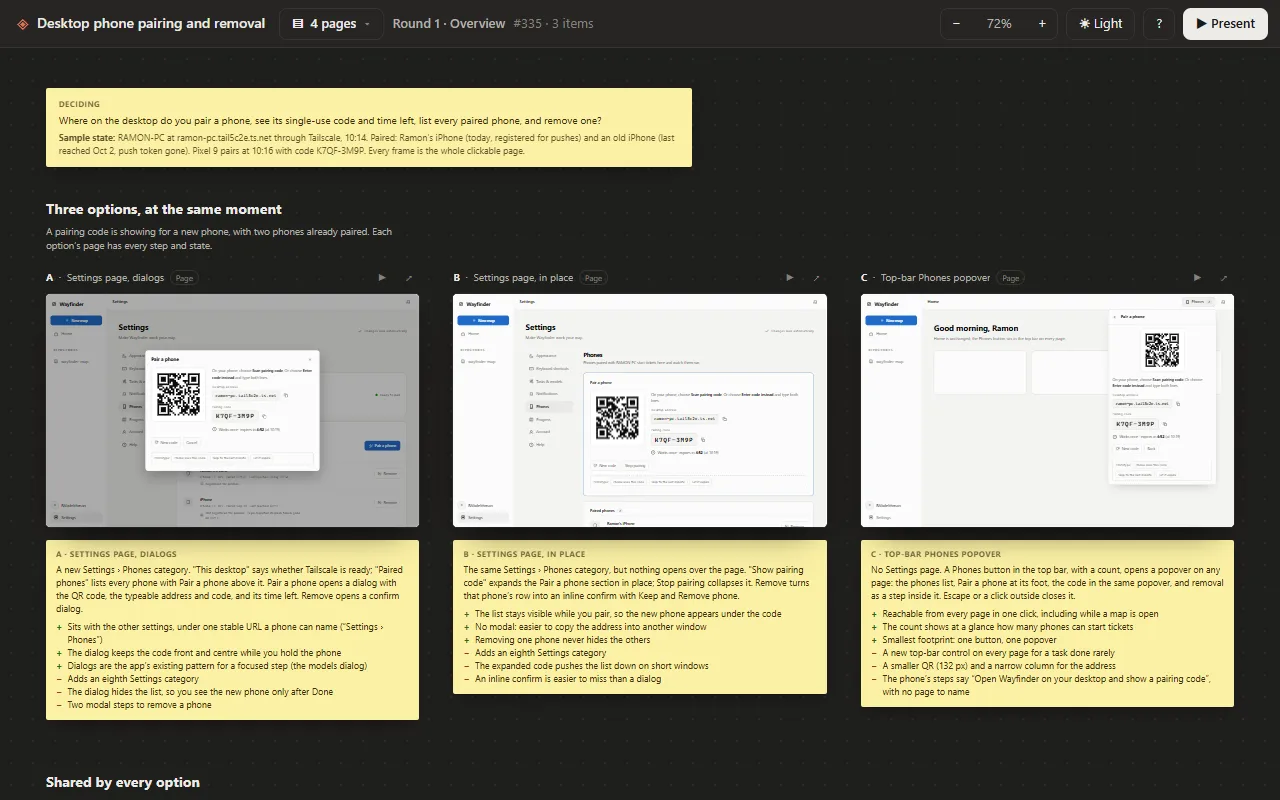
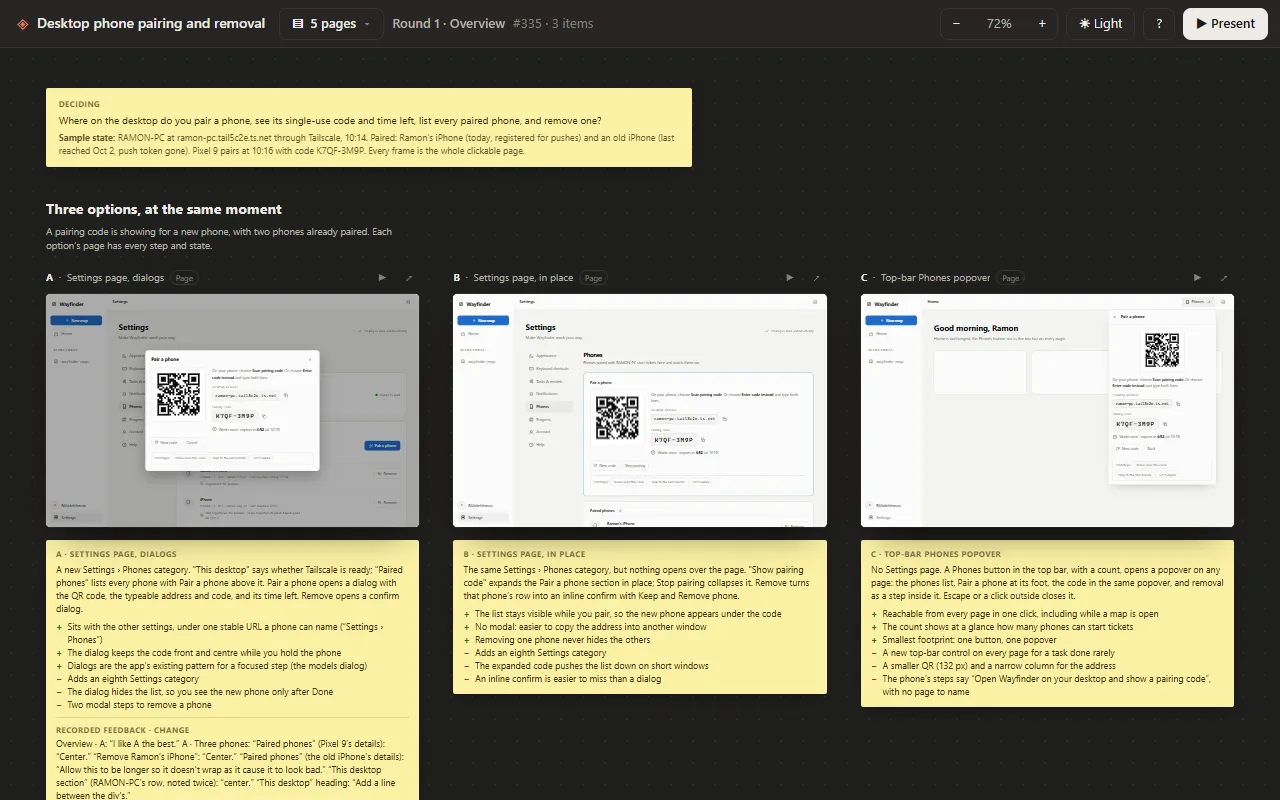
feat: revise desktop pairing canvas from feedback

Changed region(s): [[0.0312, 0.875, 0.3438, 1.0]]

diff --git a/prototypes/335-prototype-desktop-phone-pairing-and-revocation/config.js b/prototypes/335-prototype-desktop-phone-pairing-and-revocation/config.js
@@ -16,6 +16,10 @@ const NOTES = {
     idea: 'A new Settings › Phones category. "This desktop" says whether Tailscale is ready; "Paired phones" lists every phone with Pair a phone above it. Pair a phone opens a dialog with the QR code, the typeable address and code, and its time left. Remove opens a confirm dialog.',
     pros: ['Sits with the other settings, under one stable URL a phone can name (“Settings › Phones”)', 'The dialog keeps the code front and centre while you hold the phone', 'Dialogs are the app’s existing pattern for a focused step (the models dialog)'],
     cons: ['Adds an eighth Settings category', 'The dialog hides the list, so you see the new phone only after Done', 'Two modal steps to remove a phone'],
+    disposition: 'change',
+    // Ramon's Wayfinder canvas notes on e62821c (#335 comment 6478544815), verbatim.
+    feedback:
+      "Overview · A: “I like A the best.” A · Three phones: “Paired phones” (Pixel 9’s details): “Center.” “Remove Ramon’s iPhone”: “Center.” “Paired phones” (the old iPhone’s details): “Allow this to be longer so it doesn't wrap as it cause it to look bad.” “This desktop section” (RAMON‑PC’s row, noted twice): “center.” “This desktop” heading: “Add a line between the div's.”",
   },
   B: {
     idea: 'The same Settings › Phones category, but nothing opens over the page. "Show pairing code" expands the Pair a phone section in place; Stop pairing collapses it. Remove turns that phone’s row into an inline confirm with Keep and Remove phone.',
@@ -29,11 +33,12 @@ const NOTES = {
   },
 };
 
-const option = (o, title) => ({
+const option = (o, title, round = 1, intro) => ({
   id: `option-${o.toLowerCase()}`,
   title,
-  round: 1,
+  round,
   sections: [
+    ...(intro ? [intro] : []),
     {
       title: 'Before pairing',
       note: o === 'C' ? 'Where you start, with no phones and with Tailscale not running.' : 'With no phones, and with Tailscale not running on the desktop.',
@@ -69,6 +74,35 @@ const option = (o, title) => ({
     },
   ],
 });
+
+/** A later round's page: every frame names the option it was remixed from. */
+const remix = (page, from) => ({
+  ...page,
+  sections: page.sections.map((section) => ({
+    ...section,
+    items: section.items.map((item) => (item.kind === 'note' ? item : { ...item, note: { ...item.note, basedOn: from } })),
+  })),
+});
+
+const ROUND2_INTRO = {
+  title: 'What changed from A',
+  note: 'Only what Ramon’s notes on A’s Three phones frame asked for. Flow, copy, dialogs and data are A’s, in every state.',
+  items: [
+    {
+      id: 'A2-changes',
+      kind: 'note',
+      name: 'Round 2 changes',
+      boardWidth: 360,
+      text: `From Ramon’s notes on A · Three phones:
+
+1. “Center.” Every row in This desktop and Paired phones is centred vertically: the icon, the text, Remove, Pair a phone and Ready to pair.
+2. “Allow this to be longer so it doesn't wrap.” A phone’s two lines now use the row’s full width, so “Not registered for pushes · Expo reported its push token gone on Oct 3” fits on one line at 1280 px.
+3. “Add a line between the div's.” A hairline now sits under the This desktop heading, above RAMON‑PC (or above the Tailscale problem).
+
+B and C are unchanged and still on their pages.`,
+    },
+  ],
+};
 
 window.CANVAS = {
   ticket: 335,
@@ -147,7 +181,18 @@ Not checked:
 • Clipboard writes in the sandbox. Copy shows a toast either way.
 • Tailscale and phone behaviour. Nothing here talks to a phone.
 
-Known: in B, Escape does not stop pairing, because the code sits on the page and nothing is open over it. Stop pairing ends it.`,
+Known: in B, Escape does not stop pairing, because the code sits on the page and nothing is open over it. Stop pairing ends it.
+
+Round 2 (A with your notes), checked 2026-10-28 the same way:
+Source: three CSS rules under .p335-r2 in desktop.css; ?o=A2 runs A’s own script, so flow, copy, dialogs and focus are A’s. No new colours: the line is the hairline token.
+Checked:
+• All ten A2 states, light and dark, at 1280×800, 1280×560, 700×760 and 480×800 (80 frames, no page errors, no sideways overflow).
+• Centring: every row’s button or Ready to pair sits within 1 px of the row’s middle.
+• Wrapping: at 1280 and 700 wide no phone line wraps; the old iPhone’s push line is one line, not two. At 480 a line still wraps, because the window is narrower than the text.
+• The line under This desktop shows in every state, also above Tailscale isn’t running.
+• Contrast: text in the rows of Three phones and Removed is at least 5.26:1 in both themes (text colours unchanged).
+• Keyboard: Tab reaches Remove Pixel 9 with a 2 px ring; Enter opens the alertdialog on Cancel; Escape returns to Remove; Remove phone moves focus to the notice; Pair a phone’s dialog closes on Escape back to Pair a phone.
+Not checked in Round 2: everything listed under Not checked above. RAMON‑PC’s and Pair a phone’s own descriptions still wrap at 360 px; the notes asked only about phone lines.`,
             },
           ],
         },
@@ -156,5 +201,6 @@ Known: in B, Escape does not stop pairing, because the code sits on the page and
     option('A', 'A · Settings page, dialogs'),
     option('B', 'B · Settings page, in place'),
     option('C', 'C · Top-bar Phones popover'),
+    remix(option('A2', 'A2 · A with your notes', 2, ROUND2_INTRO), 'A'),
   ],
 };

diff --git a/prototypes/335-prototype-desktop-phone-pairing-and-revocation/variants/desktop.js b/prototypes/335-prototype-desktop-phone-pairing-and-revocation/variants/desktop.js
@@ -3,12 +3,16 @@
   ?o=A  Settings › Phones, pairing and removal in dialogs.
   ?o=B  Settings › Phones, pairing and removal in place on the page.
   ?o=C  A Phones button in the top bar; everything happens in its popover.
+  ?o=A2 Round 2: A with Ramon's notes on the Three phones frame (centred rows, unwrapped phone lines,
+        a line under "This desktop"). Behaves exactly like A; only desktop.css's .p335-r2 rules differ.
   ?s=closed|empty|prereq|list|code|ending|expired|paired|confirm|removed|removed-offline opens that state.
   Frames load still: the code's countdown only runs after you show a code yourself. Nothing leaves the page.
 */
 (() => {
   const q = new URLSearchParams(location.search);
-  const O = ['A', 'B', 'C'].includes(q.get('o')) ? q.get('o') : 'A';
+  const R2 = q.get('o') === 'A2';
+  const O = R2 ? 'A' : ['A', 'B', 'C'].includes(q.get('o')) ? q.get('o') : 'A';
+  document.body.classList.toggle('p335-r2', R2);
   const STATES = ['closed', 'empty', 'prereq', 'list', 'code', 'ending', 'expired', 'paired', 'confirm', 'removed', 'removed-offline'];
   const START = STATES.includes(q.get('s')) ? q.get('s') : 'list';
   const P = window.P335;

diff --git a/prototypes/335-prototype-desktop-phone-pairing-and-revocation/variants/desktop.css b/prototypes/335-prototype-desktop-phone-pairing-and-revocation/variants/desktop.css
@@ -160,3 +160,12 @@ html, body.p335 { height: 100%; margin: 0; }
 }
 .p335-dialog h2:focus { outline: none; }
 .p335-pop-body .p335-prereq > div { flex-basis: calc(100% - 28px); }
+
+/* ---------- Round 2 (?o=A2): A with Ramon's notes on A's Three phones frame ---------- */
+/* "Center." on the phone rows, their Remove buttons and This desktop's row. */
+.p335-r2 .settings-page .p335-row { align-items: center; }
+.p335-r2 .settings-page .p335-row > :is(.primary, .ghost), .p335-r2 .p335-status { margin-top: 0; }
+/* "Allow this to be longer so it doesn't wrap": phone lines take the row's full width. */
+.p335-r2 .settings-page .p335-phone .hint { max-width: none; }
+/* "Add a line between the div's": a hairline under the This desktop heading. */
+.p335-r2 .settings-page #desk-title + * { border-top: 1px solid var(--hairline); }
